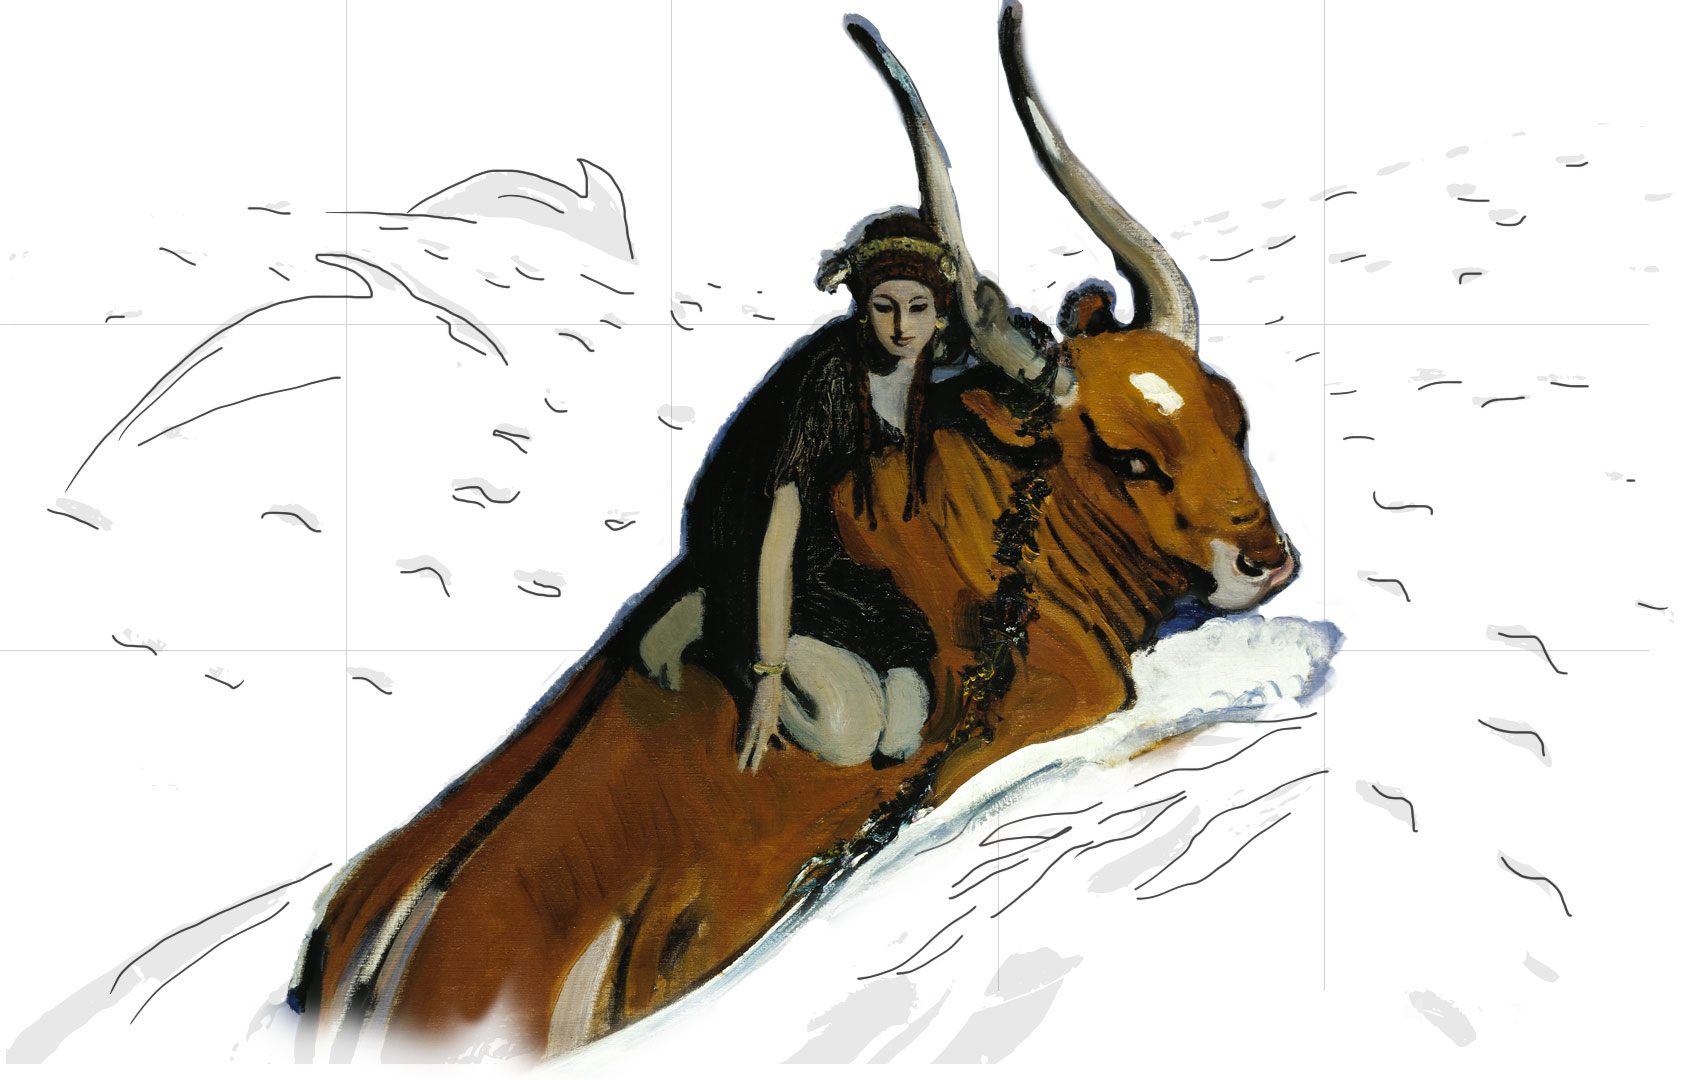
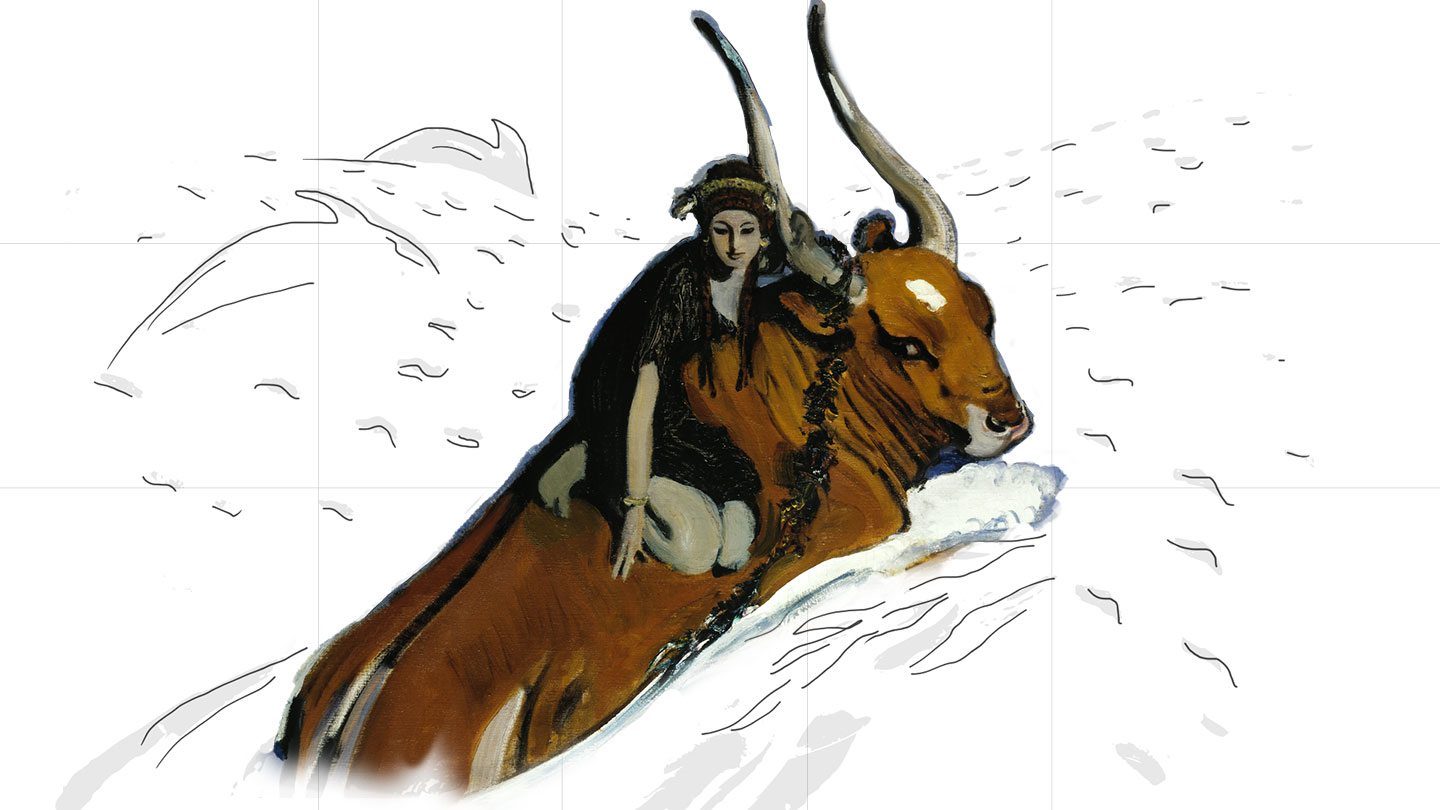
update project

diff --git a/template/modules/maps/maps.css b/template/modules/maps/maps.css
@@ -1,2 +1,2 @@
-.shipContainer{-webkit-transition:all 120s ease-in-out;transition:all 120s ease-in-out;position:absolute;left:76%;top:83%}.ship-move-left{-webkit-transform:translate(-1700px,0);-ms-transform:translate(-1700px,0);transform:translate(-1700px,0)}.ship-move-right{-webkit-transform:translate(0,0);-ms-transform:translate(0,0);transform:translate(0,0)}.ship{-webkit-animation-name:pitching;animation-name:pitching;-webkit-animation-duration:5s;animation-duration:5s;-webkit-animation-iteration-count:infinite;animation-iteration-count:infinite;-webkit-animation-timing-function:linear;animation-timing-function:linear}@-webkit-keyframes pitching{0%,29%{-webkit-transform:rotate(-2deg);transform:rotate(-2deg)}14%{-webkit-transform:rotate(-4deg);transform:rotate(-4deg)}100%,43%{-webkit-transform:rotate(0);transform:rotate(0)}57%,85%{-webkit-transform:rotate(2deg);transform:rotate(2deg)}71%{-webkit-transform:rotate(4deg);transform:rotate(4deg)}}@keyframes pitching{0%,29%{-webkit-transform:rotate(-2deg);transform:rotate(-2deg)}14%{-webkit-transform:rotate(-4deg);transform:rotate(-4deg)}100%,43%{-webkit-transform:rotate(0);transform:rotate(0)}57%,85%{-webkit-transform:rotate(2deg);transform:rotate(2deg)}71%{-webkit-transform:rotate(4deg);transform:rotate(4deg)}}.screenContainer{overflow-x:hidden;position:relative;width:100%;height:calc(100%);z-index:1}.screenContainer .fromTestToVideo{position:absolute;top:5%;left:2%;height:10%;width:5%;z-index:99;background-size:contain;background-repeat:no-repeat;background-position:center;background-image:url(../../../img/controll/scrollTop.png)}.screenContainer a{cursor:pointer}.screenContainer .maps{position:relative;min-width:1024px;width:100%;height:100%;overflow:hidden;display:none}.screenContainer .maps .birthdayPeter{display:none}.screenContainer .maps#map-history .birthdayPeter{pointer-events:none;display:block}.screenContainer .maps .modal{display:none;background:#fff;border:1px solid #fff;position:absolute;top:16%;left:49%;border-radius:7px;width:20%;height:24%}.screenContainer .maps .done,.screenContainer .maps .point{background-position:center!important;background-repeat:no-repeat!important;z-index:2}.screenContainer .maps .modal .modalTitle{padding:20px}.screenContainer .maps .modal-athens{top:16%;left:49%}.screenContainer .maps .modal-delphi{left:36%;top:29%}.screenContainer .maps .modal-korfu{left:17%;top:65%}.screenContainer .maps .modal-crete{left:69%;top:64%}.screenContainer .maps .map{position:relative;width:100%;height:111%;min-width:1024px;left:0;top:0}.screenContainer .maps .point{position:absolute;width:115px;height:113px}.screenContainer .maps .done{position:absolute;width:57px;height:57px}.screenContainer .maps .animatePoint{-webkit-transition:all 2s ease;transition:all 2s ease}.screenContainer .maps .pointStart{-webkit-transform:scale(.5);-ms-transform:scale(.5);transform:scale(.5);z-index:3}.screenContainer .maps .pointFinish{z-index:2;-webkit-transform:scale(.5);-ms-transform:scale(.5);transform:scale(.5);opacity:1}.screenContainer .maps .athens{top:10%;left:46%}.screenContainer .maps .delphi{top:23%;left:33%}.screenContainer .maps .korfu{top:58%;left:13.5%}.screenContainer .maps .crete{top:57%;left:86%}.screenContainer .maps .illustrationNature{top:16%;left:2%}.screenContainer .maps .illustrationStyle{top:17%;left:24%}.screenContainer .maps .illustrationText{top:2%;left:45.2%}.screenContainer .maps .illustrationDetail{top:1%;left:70.5%}.screenContainer .maps .birthdayPeter{top:52%;left:5.5%}@media screen and (max-height:768px){.screenContainer .maps .birthdayPeter{top:49.5%;left:6.5%}}@media screen and (max-height:660px){.screenContainer .maps .birthdayPeter{top:43.5%}}.screenContainer .maps .fortunePeter{top:51.5%;left:21%}@media screen and (max-height:768px){.screenContainer .maps .fortunePeter{top:49.5%;left:20.5%}}@media screen and (max-height:660px){.screenContainer .maps .fortunePeter{top:43.5%}}.screenContainer .maps .euroDressPeter{top:51.5%;left:42%}@media screen and (max-height:768px){.screenContainer .maps .euroDressPeter{top:49.5%;left:41%}}@media screen and (max-height:660px){.screenContainer .maps .euroDressPeter{top:43.5%}}.screenContainer .maps .SaintPetersburg{top:51.5%;left:60%}@media screen and (max-height:768px){.screenContainer .maps .SaintPetersburg{top:49.5%;left:59.5%}}@media screen and (max-height:660px){.screenContainer .maps .SaintPetersburg{top:43.5%}}.screenContainer .maps .deathPeter{top:51.5%;left:80%}.screenContainer .maps .cloud{position:absolute;-webkit-transition:all 120s ease-in-out;transition:all 120s ease-in-out;z-index:1}.screenContainer .maps .move-up{-webkit-transform:translate(0,-1920px);-ms-transform:translate(0,-1920px);transform:translate(0,-1920px)}.screenContainer .maps .move-down{-webkit-transform:translate(0,1920px);-ms-transform:translate(0,1920px);transform:translate(0,1920px)}.screenContainer .maps .move-right{-webkit-transform:translate(1920px,0);-ms-transform:translate(1920px,0);transform:translate(1920px,0)}.screenContainer .maps .move-left{-webkit-transform:translate(-1920px,0);-ms-transform:translate(-1920px,0);transform:translate(-1920px,0)}@media screen and (max-height:768px){.screenContainer .maps .deathPeter{top:49.5%;left:77.6%}#antiquityInspirationMap .screenContainer .athens{left:45%}#antiquityInspirationMap .screenContainer .korfu{left:12.5%}}@media screen and (max-height:660px){.screenContainer .maps .deathPeter{top:43.5%}.screenContainer .maps .illustrationStyle{top:12%;left:24%}.screenContainer .maps .illustrationDetail{top:0;left:68.5%}.screenContainer .maps .map{position:relative;width:100%;height:100%;min-width:1024px;min-height:768px;left:0;top:-15.8vh}}
[1 lines of base64/hex data omitted]
+.shipContainer{-webkit-transition:all 120s ease-in-out;transition:all 120s ease-in-out;position:absolute;left:76%;top:83%}.ship-move-left{-webkit-transform:translate(-1700px,0);transform:translate(-1700px,0)}.ship-move-right{-webkit-transform:translate(0,0);transform:translate(0,0)}.ship{-webkit-animation-name:pitching;animation-name:pitching;-webkit-animation-duration:5s;animation-duration:5s;-webkit-animation-iteration-count:infinite;animation-iteration-count:infinite;-webkit-animation-timing-function:linear;animation-timing-function:linear}@-webkit-keyframes pitching{0%,29%{-webkit-transform:rotate(-2deg);transform:rotate(-2deg)}14%{-webkit-transform:rotate(-4deg);transform:rotate(-4deg)}100%,43%{-webkit-transform:rotate(0);transform:rotate(0)}57%,85%{-webkit-transform:rotate(2deg);transform:rotate(2deg)}71%{-webkit-transform:rotate(4deg);transform:rotate(4deg)}}@keyframes pitching{0%,29%{-webkit-transform:rotate(-2deg);transform:rotate(-2deg)}14%{-webkit-transform:rotate(-4deg);transform:rotate(-4deg)}100%,43%{-webkit-transform:rotate(0);transform:rotate(0)}57%,85%{-webkit-transform:rotate(2deg);transform:rotate(2deg)}71%{-webkit-transform:rotate(4deg);transform:rotate(4deg)}}.screenContainer{overflow-x:hidden;position:relative;width:100%;height:calc(100%);z-index:1}.screenContainer .fromTestToVideo{position:absolute;top:5%;left:2%;height:10%;width:5%;z-index:99;background-size:contain;background-repeat:no-repeat;background-position:center;background-image:url(../../../img/controll/scrollTop.png)}.screenContainer a{cursor:pointer}.screenContainer .maps{position:relative;min-width:1024px;width:100%;height:100%;overflow:hidden;display:none}.screenContainer .maps .birthdayPeter{display:none}.screenContainer .maps#map-history .birthdayPeter{pointer-events:none;display:block}.screenContainer .maps .modal{display:none;background:#fff;border:1px solid #fff;position:absolute;top:16%;left:49%;border-radius:7px;width:20%;height:24%}.screenContainer .maps .done,.screenContainer .maps .point{background-position:center!important;background-repeat:no-repeat!important;z-index:2}.screenContainer .maps .modal .modalTitle{padding:20px}.screenContainer .maps .modal-athens{top:16%;left:49%}.screenContainer .maps .modal-delphi{left:36%;top:29%}.screenContainer .maps .modal-korfu{left:17%;top:65%}.screenContainer .maps .modal-crete{left:69%;top:64%}.screenContainer .maps .map{position:relative;width:100%;height:111%;min-width:1024px;left:0;top:0}.screenContainer .maps .responsive-image{width:100%;height:100%;background-size:cover}.screenContainer .maps .point{position:absolute;width:115px;height:113px}.screenContainer .maps .done{position:absolute;width:57px;height:57px}.screenContainer .maps .animatePoint{-webkit-transition:all 2s ease;transition:all 2s ease}.screenContainer .maps .pointStart{-webkit-transform:scale(.5);transform:scale(.5);z-index:3}.screenContainer .maps .pointFinish{z-index:2;-webkit-transform:scale(.5);transform:scale(.5);opacity:1}.screenContainer .maps .athens{top:10%;left:46%}.screenContainer .maps .delphi{top:23%;left:33%}.screenContainer .maps .korfu{top:58%;left:13.5%}.screenContainer .maps .crete{top:57%;left:86%}.screenContainer .maps .illustrationNature{top:16%;left:2%}.screenContainer .maps .illustrationStyle{top:17%;left:24%}.screenContainer .maps .illustrationText{top:2%;left:45.2%}.screenContainer .maps .illustrationDetail{top:1%;left:70.5%}.screenContainer .maps .birthdayPeter{top:52%;left:5.5%}@media screen and (max-height:768px){.screenContainer .maps .birthdayPeter{top:49.5%;left:6.5%}}@media screen and (max-height:660px){.screenContainer .maps .birthdayPeter{top:43.5%}}.screenContainer .maps .fortunePeter{top:51.5%;left:21%}@media screen and (max-height:768px){.screenContainer .maps .fortunePeter{top:49.5%;left:20.5%}}@media screen and (max-height:660px){.screenContainer .maps .fortunePeter{top:43.5%}}.screenContainer .maps .euroDressPeter{top:51.5%;left:42%}@media screen and (max-height:768px){.screenContainer .maps .euroDressPeter{top:49.5%;left:41%}}@media screen and (max-height:660px){.screenContainer .maps .euroDressPeter{top:43.5%}}.screenContainer .maps .SaintPetersburg{top:51.5%;left:60%}@media screen and (max-height:768px){.screenContainer .maps .SaintPetersburg{top:49.5%;left:59.5%}}@media screen and (max-height:660px){.screenContainer .maps .SaintPetersburg{top:43.5%}}.screenContainer .maps .deathPeter{top:51.5%;left:80%}.screenContainer .maps .cloud{position:absolute;-webkit-transition:all 120s ease-in-out;transition:all 120s ease-in-out;z-index:1}.screenContainer .maps .move-up{-webkit-transform:translate(0,-1920px);transform:translate(0,-1920px)}.screenContainer .maps .move-down{-webkit-transform:translate(0,1920px);transform:translate(0,1920px)}.screenContainer .maps .move-right{-webkit-transform:translate(1920px,0);transform:translate(1920px,0)}.screenContainer .maps .move-left{-webkit-transform:translate(-1920px,0);transform:translate(-1920px,0)}@media screen and (max-height:768px){.screenContainer .maps .deathPeter{top:49.5%;left:77.6%}#antiquityInspirationMap .screenContainer .athens{left:45%}#antiquityInspirationMap .screenContainer .korfu{left:12.5%}}@media screen and (max-height:660px){.screenContainer .maps .deathPeter{top:43.5%}.screenContainer .maps .illustrationStyle{top:12%;left:24%}.screenContainer .maps .illustrationDetail{top:0;left:68.5%}#map-antiq .screenContainer .maps .map,.screenContainer .maps .map{top:0}}
[1 lines of base64/hex data omitted]

diff --git a/template/modules/accordion/accordion.css b/template/modules/accordion/accordion.css
@@ -1,2 +1,2 @@
-ul.accordion{float:left;width:100%;height:100%;overflow:hidden;margin:0 auto;padding:0;list-style-type:none;cursor:pointer}ul.accordion polygon{-webkit-transition:all 1.6s ease;transition:all 1.6s ease}ul.accordion li{float:left;width:98px;height:100%;position:relative;background-image:url(../../../img/controll/closed-eye.png);background-color:#C41230;background-repeat:no-repeat;background-position:20px 5%;border-left:2px solid #333;border-right:1px solid #fff;-webkit-transition:all .5s ease;transition:all .5s ease}ul.accordion li:nth-child(1){z-index:0}ul.accordion li:nth-child(2){z-index:1}ul.accordion li:nth-child(3){z-index:2}ul.accordion li>p{-webkit-transform:rotate(-90deg);-ms-transform:rotate(-90deg);transform:rotate(-90deg);-webkit-transform-origin:11.2em 10em;-ms-transform-origin:11.2em 10em;transform-origin:11.2em 10em;font-weight:400;font-size:1.5em;text-transform:uppercase;color:#fff;position:absolute;width:20em}ul.accordion li div.image{display:block;overflow:hidden;width:90vw;height:100%;position:relative;margin-left:95px}ul.accordion li div.image .circle{position:absolute;height:310px;width:310px;background-color:rgba(81,81,81,0);border-radius:100%}ul.accordion li div.image .circle.hover{background-color:rgba(81,81,81,.9)}ul.accordion li div.image .circle.hover p{display:block}ul.accordion li div.image .circle.bottom{right:10%;bottom:20px}ul.accordion li div.image .circle.bottom p{padding:10% 20% 0}ul.accordion li div.image .circle.top{left:2%;top:20px}ul.accordion li div.image .circle.top p{padding:40% 20% 0}ul.accordion li div.image .circle p{color:#fff;text-align:center;display:none}ul.accordion li div.image a{position:absolute;margin:0;padding:0;border:none;width:104px;height:88px;background-color:transparent;background-repeat:no-repeat;display:none;z-index:2}ul.accordion li div.image a.goTop{top:1%;left:calc(50% - 77px)}ul.accordion li div.image a.goBottom{bottom:15%;left:calc(50% - 77px)}/*ul.accordion li div.image img{height:110%;width:94.5%}*/ul.accordion li div.image .responsive-image{width:100%;height:100%;background-size:cover;}ul.accordion li.active{width:calc(100% - 197px);background-image:url(../../../img/controll/open-eye.png);background-position:25px 5%;background-color:#474747}./*ul.accordion li.active #preloader{margin-left:98px;width:calc(100% - 98px);position:absolute;top:0}*/ul.accordion li.active div.image{border-left:1px solid #333}ul.accordion li.active div.image a{display:block}@media screen and (max-height:924px){ul.accordion li div.image .circle.bottom{right:16%}}@media screen and (max-height:768px){ul.accordion li div.image .circle.bottom{right:15%}}
[1 lines of base64/hex data omitted]
+ul.accordion{float:left;width:100%;height:100%;overflow:hidden;margin:0 auto;padding:0;list-style-type:none;cursor:pointer}ul.accordion polygon{-webkit-transition:all 1.6s ease;transition:all 1.6s ease}ul.accordion li{float:left;width:98px;height:100%;position:relative;background-image:url(../../../img/controll/closed-eye.png);background-color:#C41230;background-repeat:no-repeat;background-position:20px 5%;border-left:2px solid #333;border-right:1px solid #fff;-webkit-transition:all .5s ease;transition:all .5s ease}ul.accordion li:nth-child(1){z-index:0}ul.accordion li:nth-child(2){z-index:1}ul.accordion li:nth-child(3){z-index:2}ul.accordion li>p{-webkit-transform:rotate(-90deg);transform:rotate(-90deg);-webkit-transform-origin:11.2em 10em;transform-origin:11.2em 10em;font-weight:400;font-size:1.5em;text-transform:uppercase;color:#fff;position:absolute;width:20em}ul.accordion li div.image{display:block;overflow:hidden;width:90vw;height:100%;position:relative;margin-left:95px}ul.accordion li div.image .circle{position:absolute;height:310px;width:310px;background-color:rgba(81,81,81,0);border-radius:100%}ul.accordion li div.image .circle.hover{background-color:rgba(81,81,81,.9)}ul.accordion li div.image .circle.hover p{display:block}ul.accordion li div.image .circle.bottom{right:10%;bottom:20px}ul.accordion li div.image .circle.bottom p{padding:10% 20% 0}ul.accordion li div.image .circle.top{left:2%;top:20px}ul.accordion li div.image .circle.top p{padding:40% 20% 0}ul.accordion li div.image .circle p{color:#fff;text-align:center;display:none}ul.accordion li div.image a{position:absolute;margin:0;padding:0;border:none;width:104px;height:88px;background-color:transparent;background-repeat:no-repeat;display:none;z-index:2}ul.accordion li div.image a.goTop{top:1%;left:calc(50% - 77px)}ul.accordion li div.image a.goBottom{bottom:15%;left:calc(50% - 77px)}ul.accordion li div.image .responsive-image{width:100%;height:100%;background-size:cover}ul.accordion li.active{width:calc(100% - 197px);background-image:url(../../../img/controll/open-eye.png);background-position:25px 5%;background-color:#474747}ul.accordion li.active #preloader{margin-left:98px;width:calc(100% - 98px);position:absolute;top:0}ul.accordion li.active div.image{z-index:1000;border-left:1px solid #333}ul.accordion li.active div.image a{display:block}@media screen and (max-height:924px){ul.accordion li div.image .circle.bottom{right:16%}}@media screen and (max-height:768px){ul.accordion li div.image .circle.bottom{right:15%}}@media screen and (max-height:700px){ul.accordion>li>p{font-size:1.3em}}
[1 lines of base64/hex data omitted]

diff --git a/template/modules/maps/maps.js b/template/modules/maps/maps.js
@@ -65,18 +65,23 @@ define({
 
 	buildDonePoints: function(testName){
 		var data;
+		var self = this;
 		if(localStorage.tests){
 			data = JSON.parse(localStorage.tests);
 		}else{
 			data = this.tests;
 		}
 		data[testName].questions.forEach(function(item, i){
-			$("." +item.id + "").attr('data-id', item.id);
+			$(self.mapsHtml.find('.' +item.id)).attr('data-id', item.id);
 			if (item.status){
-				$("." +item.id + "").addClass("done");
-				$("img." +item.id + "").remove();
-				$("<img class=" + item.id + " src="+"/img/maps/pointDone.png"+">").appendTo(".done."+item.id+"");
-				$("img." +item.id + "").addClass("done");
+				$(self.mapsHtml.find('.' +item.id)).addClass("done");
+				$(self.mapsHtml.find('img.' +item.id)).remove();
+				var img = $('<img/>', {
+				    class: item.id,
+				    src: '/img/maps/pointDone.png'
+				});
+				$(img).appendTo(self.mapsHtml.find(".done."+item.id+""));
+				$(self.mapsHtml.find('img.' +item.id)).addClass("done");
 			}
 		});
 	},
@@ -84,7 +89,7 @@ define({
 	refreshPoints: function(){
 		"use strict";
 		var self = this;
-		var points = $("a.done");
+		var points = $(self.mapsHtml.find("a.done"));
 
 		_.each(points, function(item, i){
 
@@ -92,11 +97,11 @@ define({
 			$(item).removeClass('done');
 
 			function imgGenerator(src,className,id){
-				var img = document.createElement("img");
-
-				$(img).attr('src', src);
-				$(img).attr('data-id', id);
-				$(img).addClass(className);
+				var img = $('<img/>', {
+				    class: className,
+				    src: src,
+				    dataId: id
+				});
 
 				return img
 			};
@@ -199,20 +204,20 @@ define({
 	},
 
 	animateShip: function (){
-		console.log("animateShip");
+		//console.log("animateShip");
 		var self = this;
 		function moveRight(){
 
-				self.content.find("img.ship").remove();
-				$(new Image()).attr('src', '' + "/img/maps/antiq/shipRight.png").addClass('ship').appendTo($('.shipContainer'));
-				self.content.find('.shipContainer').removeClass("ship-move-left");
-			  self.content.find('.shipContainer').addClass("ship-move-right");
+			self.content.find("img.ship").remove();
+			$(new Image()).attr('src', '' + "/img/maps/antiq/shipRight.png").addClass('ship').appendTo($('.shipContainer'));
+			self.content.find('.shipContainer').removeClass("ship-move-left");
+		  	self.content.find('.shipContainer').addClass("ship-move-right");
 		};
 		function moveLeft(){
-				self.content.find("img.ship").remove();
-				$(new Image()).attr('src', '' + "/img/maps/antiq/shipLeft.png").addClass('ship').appendTo($('.shipContainer'));
-				self.content.find('.shipContainer').removeClass("ship-move-right");
-			  self.content.find('.shipContainer').addClass("ship-move-left");
+			self.content.find("img.ship").remove();
+			$(new Image()).attr('src', '' + "/img/maps/antiq/shipLeft.png").addClass('ship').appendTo($('.shipContainer'));
+			self.content.find('.shipContainer').removeClass("ship-move-right");
+		  	self.content.find('.shipContainer').addClass("ship-move-left");
 		};
 
 

diff --git a/template/modules/accordion/accordion.scss b/template/modules/accordion/accordion.scss
@@ -138,15 +138,16 @@ ul.accordion {
       background-image: url(../../../img/controll/open-eye.png);
       background-position: 25px 5%;
       background-color: #474747;
-/*
+
       #preloader{
         margin-left: 98px;
         width: calc(100% - 98px);
         position: absolute;
         top: 0;
       }
-*/
+
       & div.image {
+		z-index: 1000;
         border-left: 1px solid #333333;
 
         a{
@@ -170,5 +171,10 @@ ul.accordion {
         right: 15%;
       }
   }
+}
 
+@media screen and (max-height:700px) {
+	ul.accordion > li > p {
+		font-size:1.3em;
+	}
 }

diff --git a/template/modules/maps/maps.scss b/template/modules/maps/maps.scss
@@ -118,6 +118,14 @@
 			left: 0;
 			top: 0;
 		}
+		
+		.responsive-image {
+			width:100%;
+			height:100%;
+			background-size:cover;
+			/*background-size:contain;
+			background-repeat:no-repeat;*/
+		  }
 
 		.point{
 			position: absolute;
@@ -298,12 +306,11 @@
 	}
 
 	.screenContainer .maps .map {
-	    position: relative;
-	    width: 100%;
-	    height: 100%;
-	    min-width: 1024px;
-	    min-height: 768px;
-	    left: 0;
-	    top: -15.8vh;
+	    top: 0vh;
+	}
+	#map-antiq{
+		.screenContainer .maps .map {
+		    top: 0vh;
+		}
 	}
 }

diff --git a/template/modules/maps/maps.html b/template/modules/maps/maps.html
@@ -3,7 +3,8 @@
 		{{#each maps}}
 		<div class="maps" id="map-{{id}}" >
 				<a href="#video/{{id}}" class="fromTestToVideo"></a>
-				<img class="map" src="{{mapImage}}"/>
+				<!--<img class="map" src="{{mapImage}}"/>-->
+				<div class="responsive-image" style="background-image:url({{mapImage}});"></div>
 				<a class="birthdayPeter">
 					<img class="point pointStart birthdayPeter" src="/img/maps/pointBlack.png"/>
 				</a>
